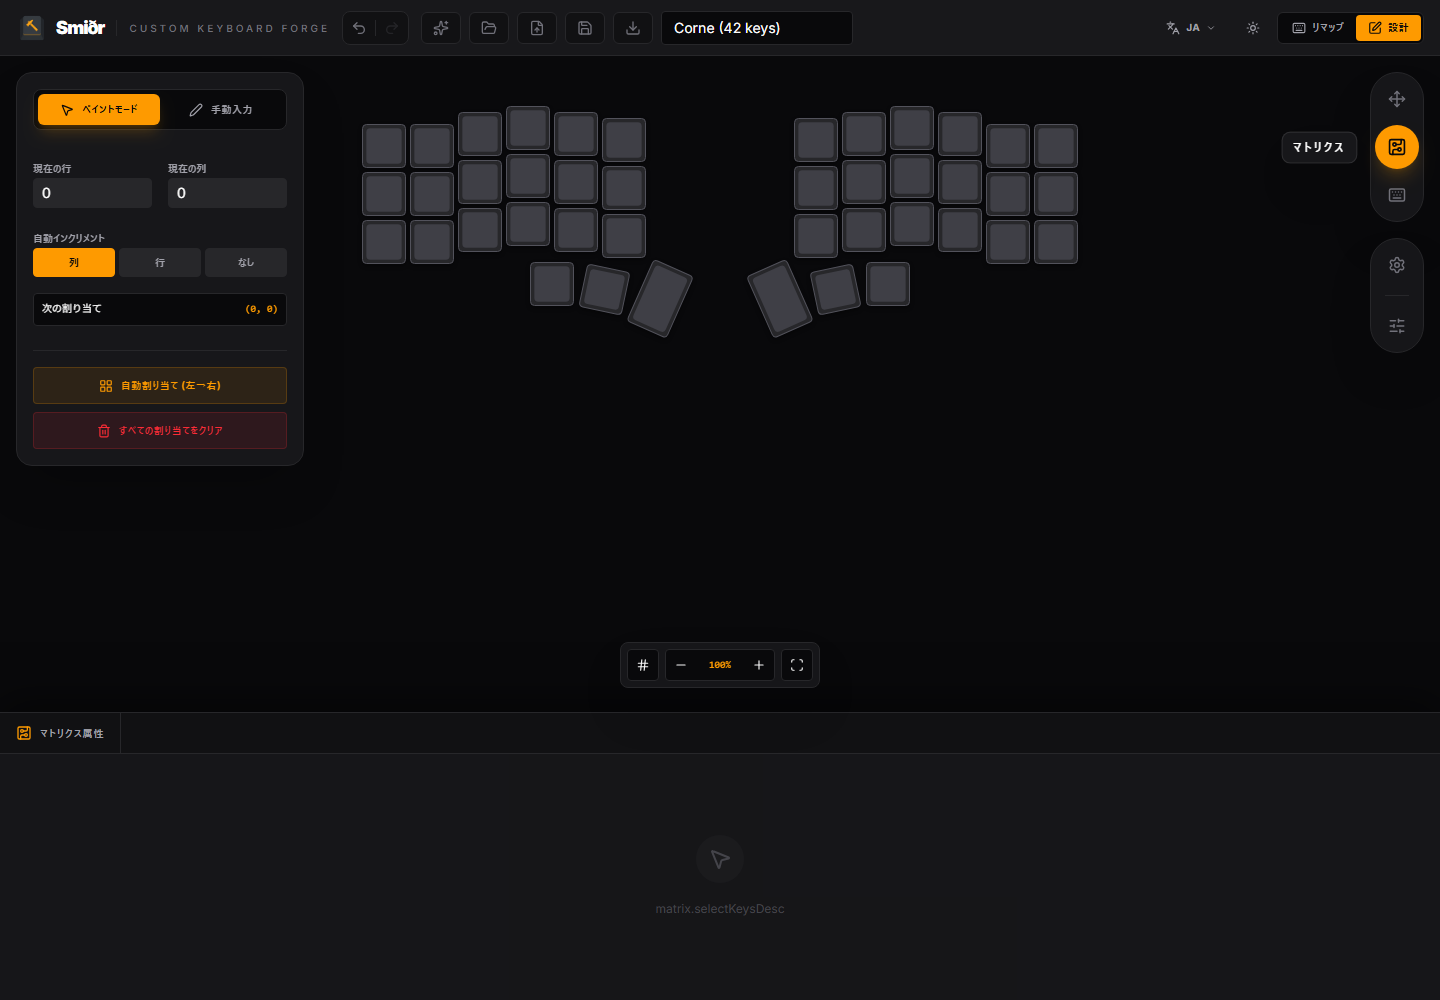
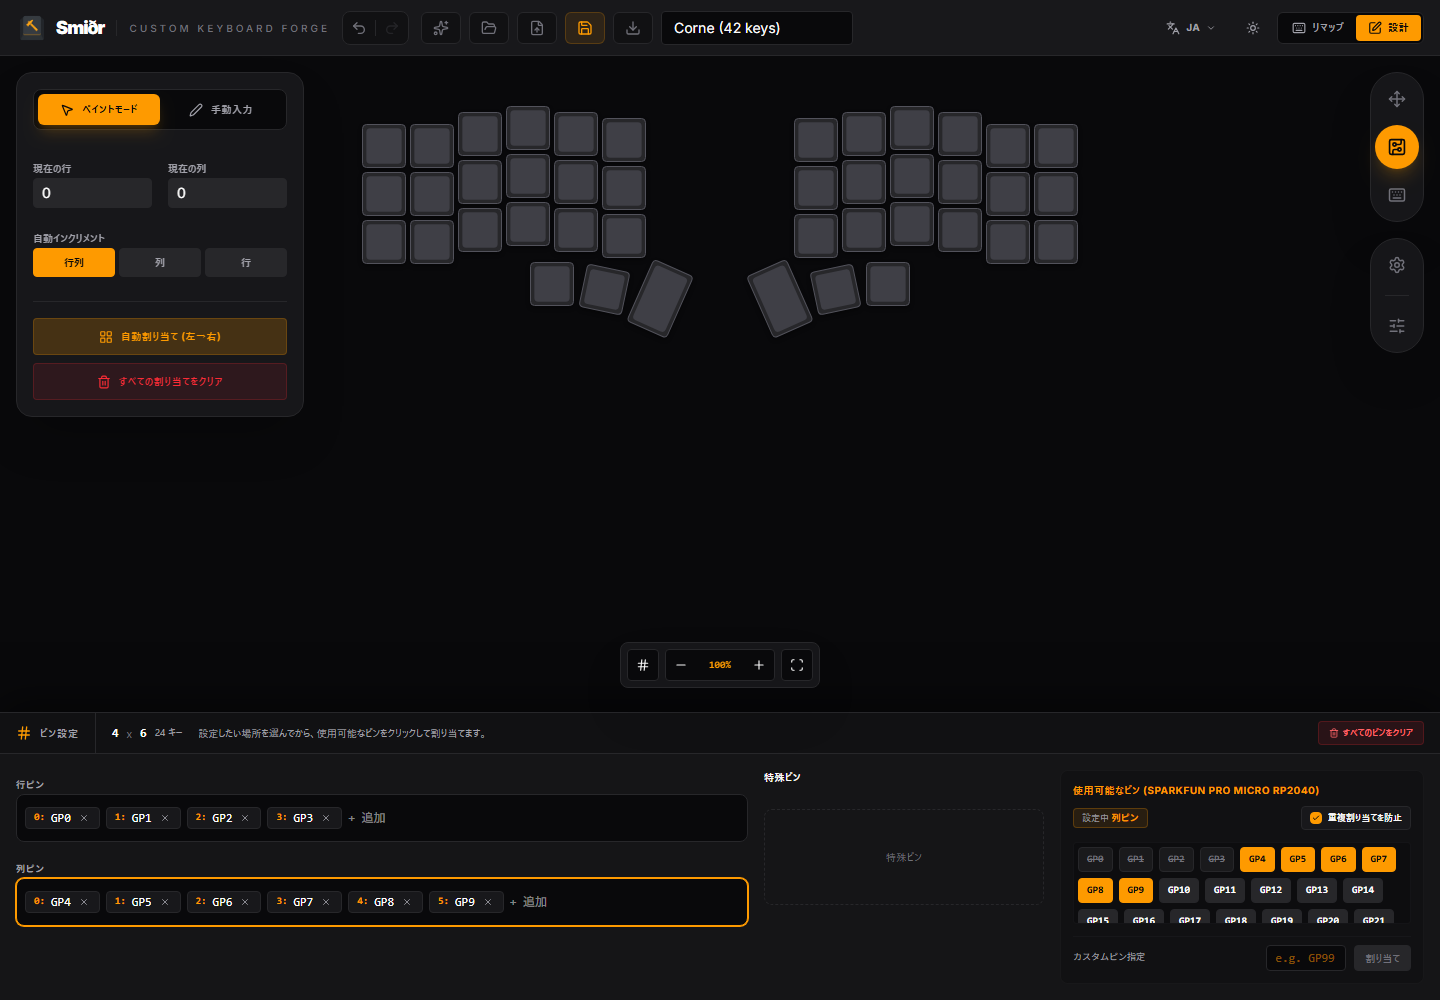
Update matrix editing docs

diff --git a/docs/design/matrix.md b/docs/design/matrix.md
@@ -8,13 +8,74 @@ import { withBase } from 'vitepress'
 
 # マトリックス編集
 
-マトリクスでは、各キーに row と col を設定します。見た目の並びと配線上の行列は一致しないことがあるため、Smiðr では物理レイアウトと同じキャンバス上で対応関係を確認しながら編集できます。
+マトリックス編集では、各キーの row / col と、ファームウェア出力に使う row / col ピンを確認します。見た目の並びと配線上の行列は一致しないことがあるため、Smiðr では物理レイアウトと同じキャンバス上で対応関係を見ながら整理できます。
 
 <figure>
-  <img :src="withBase('/assets/smidr-editor-matrix.png')" alt="マトリクスエディタで row と col を編集している画面">
-  <figcaption>キーボードの見た目を確認しながら、配線上の対応を整理できます。</figcaption>
+  <img :src="withBase('/assets/smidr-editor-matrix.png')" alt="マトリックス編集で row / col ピンを設定している画面">
+  <figcaption>キーのマトリックス座標と、コントローラーに接続するピンを同じ流れで確認できます。</figcaption>
 </figure>
+
+## row / col の考え方
+
+row と col は、ファームウェアがキーを識別するためのマトリックス座標です。たとえば `row: 2, col: 5` のキーは、スキャン行列の 2 行目、5 列目にあるキーとして扱われます。
+
+物理レイアウト上の上下左右と、配線上の row / col は必ずしも一致しません。左右分割、親指キー、縦にずれたカラムなどでは、見た目よりも配線やファームウェア側の定義を優先して整理します。
 
 ## 割り当ての確認
 
-割り当て済みのキーはキャンバス上に行列情報が表示されます。未設定や重複がある場合は、エクスポート前にマトリクスで確認します。
+割り当て済みのキーはキャンバス上に行列情報が表示されます。未設定や重複がある場合は、QMK / VIA / Vial / ZMK 向けの出力前にマトリックス編集で確認します。
+
+row / col が未設定のキーは、キーマップやファームウェア出力で正しく参照できません。レイアウトを大きく変更したあとや、KLE / VIA / Vial 由来のデータを読み込んだあとには、この画面で行列の対応を見直すと安全です。
+
+## row / col を割り当てる
+
+`ペイントモード` では、現在の row / col を指定してからキャンバス上のキーをクリックし、そのキーへ行列座標を割り当てます。クリックするたびに次の row / col へ進めたい場合は、自動インクリメントの方向を選びます。
+
+`手動入力` では、選択したキーに対して row / col を直接入力します。特定のキーだけを直したいときや、読み込んだデータの一部を確認しながら修正したいときに使います。
+
+`自動割り当て (左→右)` は、現在のレイアウトに対して row / col をまとめて割り当てます。最初の下書きとして使い、そのあと実際の配線に合わせて必要なキーを調整すると効率的です。
+
+`すべての割り当てをクリア` は、キーに設定された row / col を消去します。ピン設定は消えないため、行列座標だけを作り直したいときに使います。
+
+## row / col ピン
+
+下部のピン設定パネルでは、`行ピン` と `列ピン` を設定します。ここで設定した順番が、ファームウェアに出力される行・列ピンの順番になります。
+
+ピンはタグとして表示されます。入力欄に `GP0` のようなピン名を入力して追加するか、右側のピン候補からクリックして追加します。タグの左側に表示される番号は、そのピンが row / col 配列の何番目かを表します。
+
+タグは削除でき、ドラッグして順番を入れ替えられます。配線図や `matrix_pins` の順番と合わない場合は、ピン名そのものだけでなく並び順も確認してください。
+
+## ピン候補から割り当てる
+
+右側には、ハードウェア設定で選んだ開発ボードまたは MCU の使用可能なピン候補が表示されます。
+
+`行ピン`、`列ピン`、または `特殊ピン` の入力欄を選択してから候補ピンをクリックすると、その対象へ割り当てられます。入力欄を選んでいない状態では、候補ピンは選択先がないため割り当てられません。
+
+`重複割り当てを防止` が有効な場合、すでに使われているピンは別の対象へ割り当てられません。同じ GPIO を意図的に使う特殊な構成では、この設定を切り替えて確認します。
+
+候補にないピン名を使う場合は、`カスタムピン指定` に直接ピン名を入れて割り当てます。手入力した値は、そのままピン名として扱われるため、選択している MCU やファームウェアで使える表記か確認してください。
+
+## 分割キーボード
+
+分割キーボードを有効にしている場合は、左手側と右手側の row / col ピンを別々に設定できます。
+
+左手側は `左側 行ピン` / `左側 列ピン`、右手側は `右側 行ピン` / `右側 列ピン` として表示されます。左右で同じ配線を使う設計か、左右それぞれに異なるピン配列を持つ設計かに合わせて設定します。
+
+分割通信に使うピンは、特殊ピンの `シリアル TX ピン` として設定します。row / col ピンとは役割が違うため、行列のピン数には含まれません。
+
+## 特殊ピン
+
+RGB、OLED、エンコーダ、分割キーボードなどの機能を有効にしている場合は、対応する特殊ピン欄が表示されます。
+
+- `RGBデータ`: RGB LED のデータピンです。
+- `I2C SDA` / `I2C SCL`: OLED などの I2C デバイスに使うピンです。
+- `エンコーダ A` / `エンコーダ B`: エンコーダの A / B ピンです。
+- `シリアル TX ピン`: 分割キーボードのシリアル通信に使うピンです。
+
+これらはキーの row / col ではなく、ファームウェア機能に使う追加のピンです。エクスポート先によって必要な設定名は変わりますが、Smiðr では同じ画面でまとめて管理できます。
+
+## すべて消去
+
+`すべてのピンをクリア` は、row / col ピンと特殊ピンの割り当てをまとめて消去します。配線を最初から作り直すときに使います。
+
+キーの配置やキーマップそのものを消す操作ではありません。ただし、ファームウェア出力に必要なピン情報は空になるため、消去後は row / col ピンと必要な特殊ピンを設定し直してください。

diff --git a/docs/reference/actions.md b/docs/reference/actions.md
@@ -18,11 +18,11 @@ UI はこの中間レイヤを編集し、接続先や出力先に応じて QMK 
 | --- | --- | --- | --- |
 | `trans` | アクションタイプではなく、透過キーとして選択 | 透過。下位レイヤーの割り当てを使います。 | `{ action: 'trans' }` |
 | `none` | アクションタイプではなく、何もしないキーとして選択 | 何もしないキーです。 | `{ action: 'none' }` |
-| `tap` | タップキー | 通常のキー入力です。修飾キー同時押しも `mods` で表します。 | `{ action: 'tap', keycode: 'A' }` |
+| `tap` | タップキー | 通常のキー入力です。修飾キー同時押しも `mods` で表します。 | `{ action: 'tap', keycode: 'A' }`<br>`{ action: 'tap', keycode: 'A', mods: ['LCTL', 'LSFT'] }` |
 | `mo` | レイヤー一時切り替え | 押している間だけ指定レイヤーへ移動します。 | `{ action: 'mo', layerId: 1 }` |
 | `tg` | レイヤートグル | 指定レイヤーの有効/無効を切り替えます。 | `{ action: 'tg', layerId: 2 }` |
 | `to` | レイヤー置換 | 指定レイヤーへ直接切り替えます。 | `{ action: 'to', layerId: 3 }` |
-| `lt` | レイヤータップ | ホールドでレイヤー、タップで別アクションを実行します。 | `{ action: 'lt', layerId: 1, tapAction: { action: 'tap', keycode: 'SPC' } }` |
+| `lt` | レイヤータップ | ホールドでレイヤー、タップで別アクションを実行します。 | `{ action: 'lt', layerId: 1, tapAction: { action: 'tap', keycode: 'SPC' } }`<br>`{ action: 'lt', layerId: 1, tapAction: { action: 'tap', keycode: 'A', mods: ['LCTL'] } }` |
 | `mt` | モッドタップ | ホールドで修飾キー、タップで別アクションを実行します。 | `{ action: 'mt', modifiers: ['LCTL'], tapAction: { action: 'tap', keycode: 'A' } }` |
 | `macro` | キーコードパレットのマクロ | マクロを呼び出します。 | `{ action: 'macro', macroId: 0 }` |
 | `lighting` | キーコードパレットのライティング | ライティング操作です。 | `{ action: 'lighting', command: 'TOGGLE' }` |
@@ -60,6 +60,16 @@ UI はこの中間レイヤを編集し、接続先や出力先に応じて QMK 
   action: 'lt',
   layerId: 1,
   tapAction: { action: 'tap', keycode: 'SPC' }
+}
+```
+
+タップ側のアクションにも `mods` を含められます。
+
+```ts
+{
+  action: 'lt',
+  layerId: 1,
+  tapAction: { action: 'tap', keycode: 'A', mods: ['LCTL'] }
 }
 ```
 
